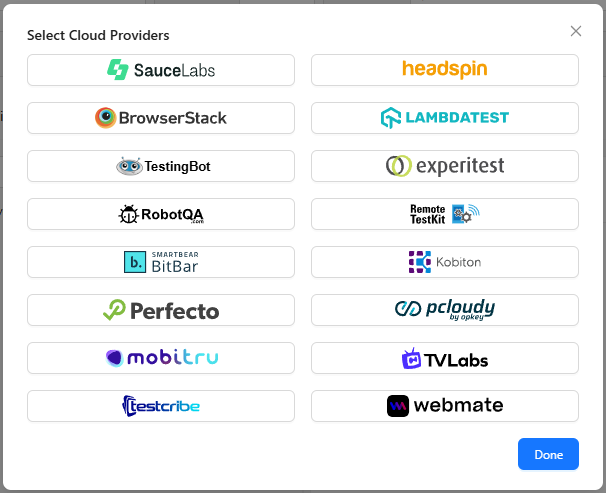
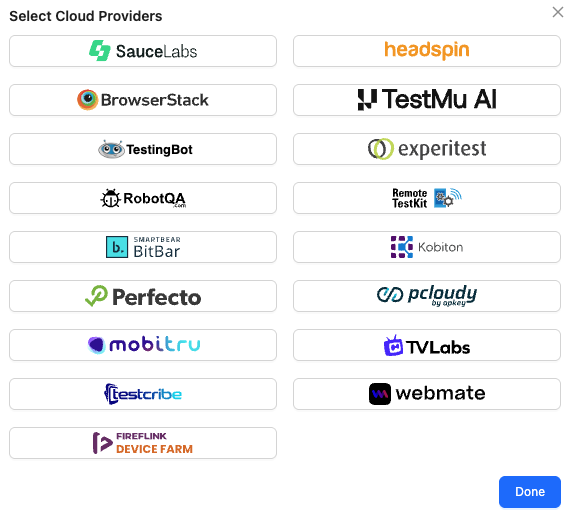
chore: update LambdaTest to TestMu AI (#2609)
* chore: update LambdaTest to TestMu AI

* update alt text in readme

* use dark mode logo in readme

Changed region(s): [[0.0, 0.0, 1.0, 1.0], [0.5079, 0.3651, 0.5378, 0.4564]]

diff --git a/app/common/renderer/components/SessionBuilder/ServerDetails/CloudProviders.jsx b/app/common/renderer/components/SessionBuilder/ServerDetails/CloudProviders.jsx
@@ -7,7 +7,6 @@ import FireflinkDeviceFarmColor from '../../../assets/images/fireflink_deviceFar
 import HeadSpinLogo from '../../../assets/images/headspin_logo.svg';
 import KobitonLogo from '../../../assets/images/kobiton_logo.svg';
 import KobitonLogoDark from '../../../assets/images/kobiton_logo_dark.svg';
-import LambdaTestLogo from '../../../assets/images/lambdatest_logo.svg';
 import MobitruLogo from '../../../assets/images/mobitru_logo.svg';
 import PcloudyLogo from '../../../assets/images/pcloudy_logo.svg';
 import PcloudyLogoDark from '../../../assets/images/pcloudy_logo_dark.svg';
@@ -20,6 +19,8 @@ import SauceLogoDark from '../../../assets/images/sauce_logo_dark.svg';
 import TestcribeLogo from '../../../assets/images/testcribe_logo.svg';
 import TestcribeLogoDark from '../../../assets/images/testcribe_logo_dark.svg';
 import TestingBotLogo from '../../../assets/images/testingbot_logo.svg';
+import TestMuAILogo from '../../../assets/images/testmuai_logo.svg';
+import TestMuAILogoDark from '../../../assets/images/testmuai_logo_dark.svg';
 import TVLabsLogo from '../../../assets/images/tvlabs_logo.svg';
 import TVLabsLogoDark from '../../../assets/images/tvlabs_logo_dark.svg';
 import WebmateLogo from '../../../assets/images/webmate_logo.svg';
@@ -33,7 +34,6 @@ import ServerTabExperitest from './ServerTabExperitest.jsx';
 import ServerTabFireflinkDeviceFarm from './ServerTabFireflinkDeviceFarm.jsx';
 import ServerTabHeadspin from './ServerTabHeadspin.jsx';
 import ServerTabKobiton from './ServerTabKobiton.jsx';
-import ServerTabLambdatest from './ServerTabLambdatest.jsx';
 import ServerTabMobitru from './ServerTabMobitru.jsx';
 import ServerTabPcloudy from './ServerTabPcloudy.jsx';
 import ServerTabPerfecto from './ServerTabPerfecto.jsx';
@@ -42,6 +42,7 @@ import ServerTabRobotQA from './ServerTabRobotQA.jsx';
 import ServerTabSauce from './ServerTabSauce.jsx';
 import ServerTabTestcribe from './ServerTabTestcribe.jsx';
 import ServerTabTestingbot from './ServerTabTestingbot.jsx';
+import ServerTabTestMuAI from './ServerTabTestMuAI.jsx';
 import ServerTabTVLabs from './ServerTabTVLabs.jsx';
 import ServerTabWebmate from './ServerTabWebmate.jsx';
 
@@ -67,11 +68,11 @@ const providers = {
       dark: BrowserStackLogoDark,
     },
   },
-  [SERVER_TYPES.LAMBDATEST]: {
-    tab: ServerTabLambdatest,
+  [SERVER_TYPES.TESTMUAI]: {
+    tab: ServerTabTestMuAI,
     logos: {
-      light: LambdaTestLogo,
-      dark: null,
+      light: TestMuAILogo,
+      dark: TestMuAILogoDark,
     },
   },
   [SERVER_TYPES.TESTINGBOT]: {

diff --git a/app/common/renderer/components/SessionBuilder/ServerDetails/ServerTabTestMuAI.jsx b/app/common/renderer/components/SessionBuilder/ServerDetails/ServerTabTestMuAI.jsx
@@ -3,30 +3,30 @@ import {useTranslation} from 'react-i18next';
 
 import {INPUT} from '../../../constants/antd-types.js';
 
-const lambdatestUsernamePlaceholder = (t) => {
+const testMuAIUsernamePlaceholder = (t) => {
   if (process.env.LAMBDATEST_USERNAME) {
     return t('usingDataFoundIn', {environmentVariable: 'LAMBDATEST_USERNAME'});
   }
   return t('yourUsername');
 };
 
-const lambdatestAccessKeyPlaceholder = (t) => {
+const testMuAIAccessKeyPlaceholder = (t) => {
   if (process.env.LAMBDATEST_ACCESS_KEY) {
     return t('usingDataFoundIn', {environmentVariable: 'LAMBDATEST_ACCESS_KEY'});
   }
   return t('yourAccessKey');
 };
 
-const ServerTabLambdatest = ({server, setServerParam}) => {
+const ServerTabTestMuAI = ({server, setServerParam}) => {
   const {t} = useTranslation();
   return (
     <Row gutter={8}>
       <Col span={12}>
         <Space.Compact block>
-          <Space.Addon>{t('LambdaTest Username')}</Space.Addon>
+          <Space.Addon>{t('TestMu AI Username')}</Space.Addon>
           <Input
-            id="lambdatestUsername"
-            placeholder={lambdatestUsernamePlaceholder(t)}
+            id="testMuAIUsername"
+            placeholder={testMuAIUsernamePlaceholder(t)}
             value={server.lambdatest.username}
             onChange={(e) => setServerParam('username', e.target.value)}
           />
@@ -34,11 +34,11 @@ const ServerTabLambdatest = ({server, setServerParam}) => {
       </Col>
       <Col span={12}>
         <Space.Compact block>
-          <Space.Addon>{t('LambdaTest Access Key')}</Space.Addon>
+          <Space.Addon>{t('TestMu AI Access Key')}</Space.Addon>
           <Input
-            id="lambdatestPassword"
+            id="testMuAIUsernameAccessKey"
             type={INPUT.PASSWORD}
-            placeholder={lambdatestAccessKeyPlaceholder(t)}
+            placeholder={testMuAIAccessKeyPlaceholder(t)}
             value={server.lambdatest.accessKey}
             onChange={(e) => setServerParam('accessKey', e.target.value)}
           />
@@ -48,4 +48,4 @@ const ServerTabLambdatest = ({server, setServerParam}) => {
   );
 };
 
-export default ServerTabLambdatest;
+export default ServerTabTestMuAI;

diff --git a/test/unit/utils-attaching-to-session.spec.js b/test/unit/utils-attaching-to-session.spec.js
@@ -41,7 +41,7 @@ describe('utils/attaching-to-session.js', function () {
         '12345 — AAAAA-BBBBB / Android / UiAutomator2 / com.best.app',
       );
     });
-    it('should show correct info for LambdaTest-specific capability format', function () {
+    it('should show correct info for TestMu AI-specific capability format', function () {
       const session = {
         id: '12345',
         capabilities: {
@@ -57,7 +57,7 @@ describe('utils/attaching-to-session.js', function () {
           },
         },
       };
-      const serverType = SERVER_TYPES.LAMBDATEST;
+      const serverType = SERVER_TYPES.TESTMUAI;
       expect(getSessionInfo(session, serverType)).toEqual(
         '12345 — Vitest Session / Vitest Phone / Android 100 / UiAutomator2 / bestapp.apk',
       );

diff --git a/app/common/renderer/utils/attaching-to-session.js b/app/common/renderer/utils/attaching-to-session.js
@@ -46,7 +46,7 @@ class DefaultSessionDescription {
   }
 }
 
-class LambdaTestSessionDescription extends DefaultSessionDescription {
+class TestMuAISessionDescription extends DefaultSessionDescription {
   constructor(caps) {
     super('capabilities' in caps ? caps.capabilities : caps);
   }
@@ -58,8 +58,8 @@ class LambdaTestSessionDescription extends DefaultSessionDescription {
 
 const getSessionDescription = (caps, serverType) => {
   switch (serverType) {
-    case SERVER_TYPES.LAMBDATEST:
-      return new LambdaTestSessionDescription(caps);
+    case SERVER_TYPES.TESTMUAI:
+      return new TestMuAISessionDescription(caps);
     default:
       return new DefaultSessionDescription(caps);
   }

diff --git a/app/common/renderer/actions/SessionBuilder.js b/app/common/renderer/actions/SessionBuilder.js
@@ -302,8 +302,8 @@ export function newSession(originalCaps, attachSessId = null) {
         let attachedSessionCaps = {};
         if (attachedSession) {
           attachedSessionCaps = attachedSession.capabilities;
-          if (session.serverType === SERVER_TYPES.LAMBDATEST) {
-            // adjust for LambdaTest-specific format
+          if (session.serverType === SERVER_TYPES.TESTMUAI) {
+            // adjust for TestMu AI-specific format
             if ('capabilities' in attachedSessionCaps) {
               attachedSessionCaps = attachedSessionCaps.capabilities;
             }

diff --git a/app/common/renderer/components/SessionBuilder/ServerDetails/AdvancedServerParams.jsx b/app/common/renderer/components/SessionBuilder/ServerDetails/AdvancedServerParams.jsx
@@ -16,7 +16,7 @@ const AdvancedServerParams = ({server, setServerParam, serverType}) => {
                 label: t('Advanced Settings'),
                 children: (
                   <Row>
-                    {serverType !== 'lambdatest' && (
+                    {serverType !== SERVER_TYPES.TESTMUAI && (
                       <Col span={7}>
                         <Form.Item>
                           <Checkbox

diff --git a/app/common/renderer/constants/session-builder.js b/app/common/renderer/constants/session-builder.js
@@ -21,7 +21,7 @@ export const SERVER_TYPES = {
   SAUCE: 'sauce',
   HEADSPIN: 'headspin',
   BROWSERSTACK: 'browserstack',
-  LAMBDATEST: 'lambdatest',
+  TESTMUAI: 'lambdatest',
   TESTINGBOT: 'testingbot',
   EXPERITEST: 'experitest',
   ROBOTQA: 'roboticmobi',

diff --git a/docs/session-builder/server-details.md b/docs/session-builder/server-details.md
@@ -35,9 +35,9 @@ support integration through Appium Inspector:
 
 Selecting any provider then adds a new tab next to the default _Appium Server_ tab, and switching to
 the provider's tab changes the available server detail fields. Different providers will have
-different fields - for example, LambdaTest only requires the _username_ and _access key_:
+different fields - for example, TestMu AI only requires the _username_ and _access key_:
 
-![LambdaTest Server Details](./assets/images/server-details/lambdatest-details.png)
+![TestMu AI Server Details](./assets/images/server-details/testmuai-details.png)
 
 ## Advanced Settings
 

diff --git a/README.md b/README.md
@@ -87,8 +87,8 @@ The Inspector has built-in integrations with various cloud service provider plat
       </a>
     </td>
     <td align="center" valign="center">
-      <a href="https://www.lambdatest.com/support/docs/appium-inspector-integration">
-        <img width="200" height="50" alt="LambdaTest" src="app/common/renderer/assets/images/lambdatest_logo.svg">
+      <a href="https://www.testmuai.com/support/docs/appium-inspector-integration/">
+        <img width="200" height="50" alt="TestMu AI (formerly LambdaTest)" src="app/common/renderer/assets/images/testmuai_logo_dark.svg">
       </a>
     </td>
   </tr>
